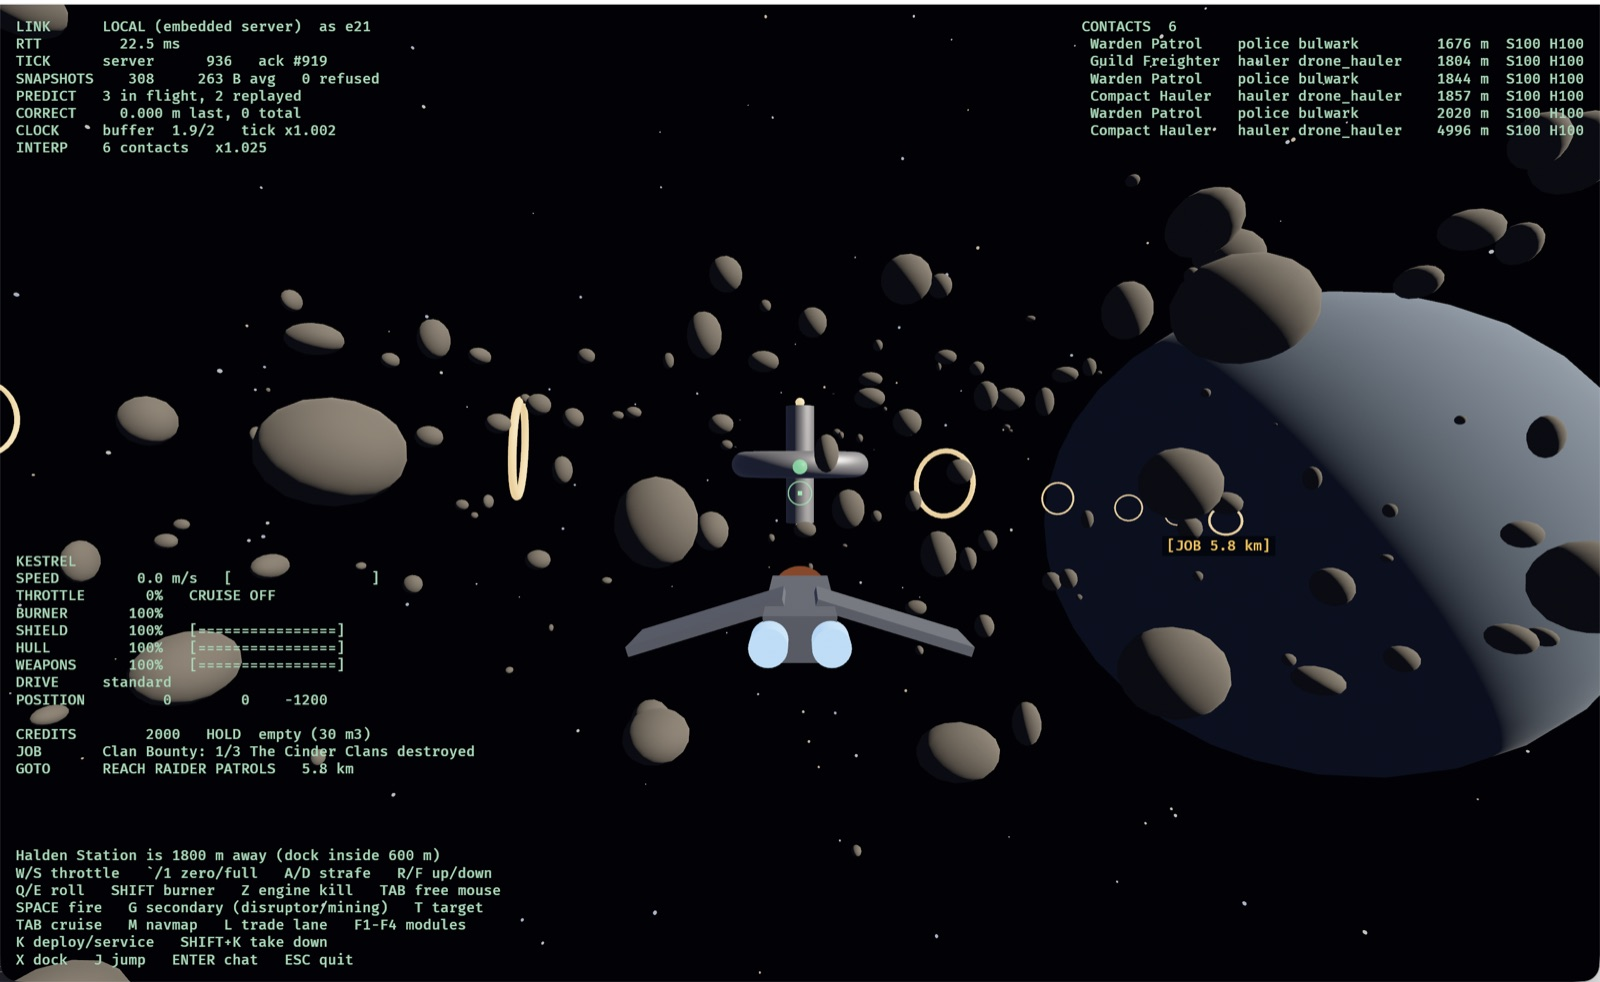
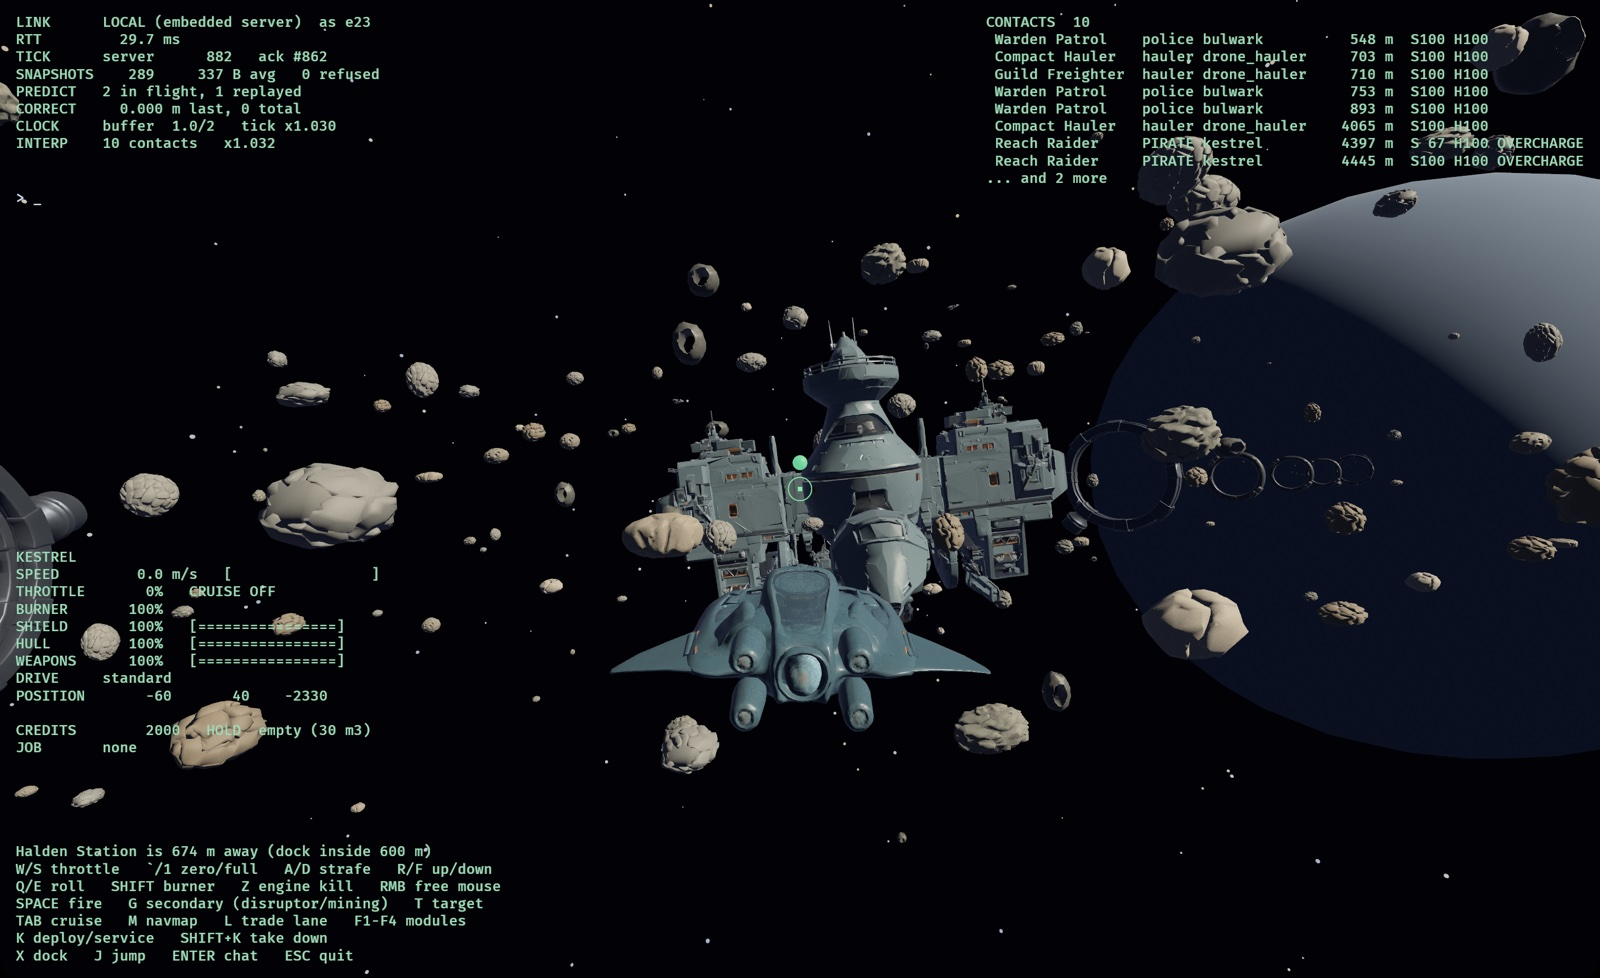
v0.3.1: real models, new screenshots, backdrop brief
Download section points at v0.3.1. All six screenshots are retaken from the
current build, which draws real 3D models for the hulls, stations, gates,
lane rings and asteroids; captions and alt text follow what is in them. The
asset brief gains the full system-backdrop section.

diff --git a/assets.html b/assets.html
@@ -320,6 +320,21 @@
     margin-bottom: 6px;
   }
 
+  /* ---------- prompts ---------- */
+
+  .prompt {
+    font-family: var(--mono);
+    font-size: 12.5px;
+    line-height: 1.6;
+    white-space: pre-wrap;
+    background: var(--slate-dim);
+    border-left: 3px solid var(--rule);
+    padding: 12px 16px;
+    margin: 0 0 18px;
+    max-width: var(--measure);
+    border-radius: 0 3px 3px 0;
+  }
+
   /* ---------- swatches ---------- */
 
   .swatches {
@@ -555,6 +570,13 @@
         one: <span class="id">carrack</span> is 30, <span class="id">drone_hauler</span> 2.2, the
         fighters 1. Author to the table above and drop it. A model whose true size is a data-file
         multiplier is a model nobody can inspect.</p>
+      <p><strong>How the first models are wired in (M35).</strong> The generated set does not meet
+        this contract yet: each file is normalised to about 1&nbsp;m and a hull's nose points along
+        &minus;X. The client turns hulls &minus;90° about Y, measures each file's furthest vertex and
+        scales it to the placeholder it replaces, so ships still draw at placeholder size. Files
+        are found by id (<code>ships/&lt;class&gt;</code>, <code>stations/&lt;base&gt;</code>,
+        <code>structures/&lt;kind&gt;</code>, <code>props/&hellip;</code>); a missing file leaves
+        the placeholder.</p>
 
       <h3>Polygon budgets</h3>
       <p>Interest management replicates up to 24 ships at once, so a busy station means two dozen
@@ -954,21 +976,103 @@
         like entering something rather than crossing a line.</p>
 
       <h3>System backdrops <span class="p p2">P2</span></h3>
-      <p>Today every system shares one generic starfield, so arriving somewhere new looks like
-        arriving nowhere. One skybox per system (cubemap, 2048&nbsp;px a face,
-        <code>skybox/&lt;system id&gt;_{px,nx,py,ny,pz,nz}.png</code>), dim enough that the HUD and
-        contacts stay readable over it. The three should be told apart at a glance from the
-        arrival point: that glance is how a pilot knows a jump worked.</p>
+      <p>Today every system shares one generic starfield (900 unlit dots 40&nbsp;km out), so
+        arriving somewhere new looks like arriving nowhere. Each system gets its own sky. The look
+        to aim for is <strong>deep-space astrophotography</strong>: Hubble and Webb nebulae, the
+        Milky Way as long-exposure photographs show it. Not painted sci-fi space with planets and
+        lens flares.</p>
+      <p><strong>The three must be told apart at a glance from the arrival point.</strong> That
+        glance is how a pilot knows a jump worked: warm gold for Harrow Reach, dark brown dust for
+        Kessler Gap, cold blue-violet for Vell Drift.</p>
+
+      <h4>Technical contract</h4>
       <div class="scroll">
         <table>
-          <thead><tr><th>id</th><th>Name</th><th>Security</th><th class="wrap">Mood</th></tr></thead>
           <tbody>
-            <tr><td><span class="id">harrow_reach</span></td><td>Harrow Reach</td><td>High</td><td class="wrap">Warm and lived-in: a yellow-white sun low on one side, Harrow's green glow, dense traffic-lit lanes. Safe.</td></tr>
-            <tr><td><span class="id">kessler_gap</span></td><td>Kessler Gap</td><td>Low</td><td class="wrap">Dusty and dim: a brown-grey dust band across the sky, a distant red dwarf, wreck-glitter in the dust. Exposed.</td></tr>
-            <tr><td><span class="id">vell_drift</span></td><td>Vell Drift</td><td>Null</td><td class="wrap">Cold and deep: blue-violet nebula filaments, no near star, one ember-red smudge where Cinder Hold's reactors light the dust. Nobody's.</td></tr>
+            <tr><td>Deliverable</td><td class="wrap">One <strong>equirectangular panorama</strong> per system: <code>skybox/&lt;system id&gt;.png</code></td></tr>
+            <tr><td>Size</td><td class="wrap"><strong>8192 &times; 4096</strong> (2:1). 4096 &times; 2048 is the floor; it softens visibly</td></tr>
+            <tr><td>Format</td><td class="wrap">PNG, sRGB, 8 or 16 bit. <strong>Dithered</strong>: dark gradients band badly in 8 bit</td></tr>
+            <tr><td>Wrap</td><td class="wrap">The left and right edges must meet with no seam</td></tr>
+            <tr><td>Poles</td><td class="wrap">Top and bottom 15% (the zenith and nadir) are pinched by the projection: keep them to plain star field</td></tr>
+            <tr><td>Conversion</td><td class="wrap">The wiring step converts the panorama to the cubemap Bevy draws (2048&nbsp;px a face). Do not deliver cube faces</td></tr>
           </tbody>
         </table>
       </div>
+      <p><strong>Orientation.</strong> The image is the sky seen from inside. The <strong>centre
+        of the image is &minus;Z</strong>, the direction a pilot faces at the spawn point; a
+        quarter to the right is +X, the left and right edges are +Z (behind), the top row is
+        +Y.</p>
+      <p><strong>Leave the sun out.</strong> The engine draws the system's star so it lines up with
+        the light that shades the ships, at about <strong>(u&nbsp;0.81, v&nbsp;0.32)</strong> of
+        the image: right of centre, a third of the way down. Keep that patch free of bright
+        features, or the sky shows two suns.</p>
+      <p><strong>Brightness.</strong> The HUD is green text drawn straight over the sky, and
+        contacts are small grey hulls. Most of the image should be near-black (sRGB below about
+        40/255). Nebulae peak around 60&ndash;70%. Nothing white bigger than a star. If a
+        screenshot of the HUD over the brightest part is hard to read, it is too bright.</p>
+
+      <h4>How hard this is</h4>
+      <p>Making a beautiful nebula image is easy for any current image model. The hard part is a
+        <strong>seamless, full-sphere</strong> image at 8k. Single-image models (GPT Image,
+        Midjourney, Flux, Imagen) do not wrap left to right, distort at the poles, and top out
+        around 2k. There are three ways to get there, best first:</p>
+      <ol>
+        <li><strong>Real star field plus a generated feature (recommended).</strong> Start from
+          NASA's <em>Deep Star Maps 2020</em> (Scientific Visualization Studio): a real all-sky star
+          map from Gaia and Hipparcos, already equirectangular, up to 64k (as HDR <code>.exr</code>), free to use with the credit line &ldquo;NASA/Goddard Space Flight Center Scientific Visualization Studio; Gaia DR2: ESA/Gaia/DPAC&rdquo;. Turn it
+          differently for each system so the skies differ, dim it, then composite <strong>one
+          generated nebula or dust feature per system</strong> into the horizon band, painted on
+          black (prompts below). The stars are real, the projection is already right, and only the
+          feature has to be generated.</li>
+        <li><strong>A dedicated 360 generator</strong> (Blockade Labs Skybox AI, or a
+          panorama-capable model). It handles the projection and the wrap, but check the poles and
+          upscale to 8k.</li>
+        <li><strong>A single-image model with fix-up.</strong> Generate at 2:1, upscale (Real-ESRGAN
+          or similar), then fix the wrap: shift the image half a width, inpaint the seam now in the
+          middle, and shift it back. Paint the poles over with star field.</li>
+      </ol>
+      <p><strong>Real Hubble and Webb images</strong> are the right style reference. Using one
+        directly is possible, with care. NASA images are generally public domain. ESA/Hubble and
+        ESA/Webb images are CC&nbsp;BY&nbsp;4.0 and need a credit line. Check each image's credit.
+        They are flat frames, not skies, so they can only be composited in as a feature. Famous
+        objects (the Pillars of Creation, the Carina Nebula) are recognisable and break the
+        fiction. A generated feature in the same palette is usually better.</p>
+
+      <h4>The systems</h4>
+      <div class="scroll">
+        <table>
+          <thead><tr><th>id</th><th>Name</th><th>Security</th><th class="wrap">Sky</th></tr></thead>
+          <tbody>
+            <tr><td><span class="id">harrow_reach</span></td><td>Harrow Reach</td><td>High</td><td class="wrap">Warm and rich: a bright Milky Way band crossing at a tilt, golden dust lanes, a soft rose-and-gold emission nebula low on the left. Busy with stars. Safe.</td></tr>
+            <tr><td><span class="id">kessler_gap</span></td><td>Kessler Gap</td><td>Low</td><td class="wrap">Dark and dusty: a broad brown-grey dark nebula blotting out a third of the sky, thin starlight around its edges, one small distant red dwarf with a faint glow. Sparse. Exposed.</td></tr>
+            <tr><td><span class="id">vell_drift</span></td><td>Vell Drift</td><td>Null</td><td class="wrap">Cold and deep: the filaments of an old supernova remnant across the sky, teal and violet with thin red edges, very few stars. One ember-red smudge low on the horizon where Cinder Hold's reactors light the dust. Nobody's.</td></tr>
+          </tbody>
+        </table>
+      </div>
+
+      <h4>Prompts</h4>
+      <p>Each prompt is the system's sky plus the shared style. Use the panorama form with a 360
+        generator; use the feature form for route 1 or 3, where the feature is composited onto a
+        star field.</p>
+      <p><strong>Shared style</strong> (append to every prompt)</p>
+      <div class="prompt">Deep-space astrophotography in the style of Hubble Space Telescope and James Webb Space Telescope images: real-looking nebula structure with fine filaments and dust lanes, natural star colours, soft diffraction glow only on the brightest stars. Mostly black sky, low overall brightness, high dynamic range, subtle detail in the dark areas, no banding. Photographic, not painted. No planets, no spaceships, no lens flares, no text, no watermark, no frame.</div>
+      <p><strong>Panorama form</strong>, prefix</p>
+      <div class="prompt">Seamless equirectangular 360-degree panorama of a night sky in deep space, 2:1 aspect ratio, left and right edges continuous, plain star field near the top and bottom edges.</div>
+      <p><strong>Feature form</strong>, prefix</p>
+      <div class="prompt">A single isolated deep-space feature on a pure black background, no stars, soft edges fading to black on every side, for compositing onto a star field.</div>
+      <p><span class="id">harrow_reach</span></p>
+      <div class="prompt">A rich, warm sky. A bright Milky Way band crosses the frame at a gentle tilt, dense with stars, with golden-brown dust lanes running through it. Low on the left, a soft emission nebula in rose, gold and warm white, like a small Lagoon Nebula, glowing gently. Warm, safe, inhabited-feeling, the colours of late-evening light.</div>
+      <p><span class="id">kessler_gap</span></p>
+      <div class="prompt">A dark, dusty, desolate sky. A vast brown-grey dark nebula, opaque cold dust like Barnard's dark nebulae or the Coalsack, blots out a third of the sky, its edges lit faintly from behind. Thin, sparse starlight around it. Far off, one small dim red dwarf star with a faint red halo. Dim, empty, exposed, the colours of soot and rust.</div>
+      <p><span class="id">vell_drift</span></p>
+      <div class="prompt">A cold, deep, empty sky. The long thin filaments of an ancient supernova remnant, like the Veil Nebula, sweep across it in teal and blue-violet with fine red hydrogen edges, delicate and torn. Very few stars. Low on the horizon, a single faint ember-orange glow lighting a patch of dust. Cold, lonely, lawless, the colours of ice and a dying fire.</div>
+
+      <h4>Acceptance</h4>
+      <ul>
+        <li>Load it in a panorama viewer and turn a full circle: no seam, no pinch.</li>
+        <li>Put the game's HUD screenshot over the brightest part: the text reads.</li>
+        <li>Put the three side by side as small thumbnails: each is recognisable.</li>
+      </ul>
 
       <h3><span class="id">loot</span> Cargo container <span class="p p1">P1</span></h3>
       <p>Spawns where a ship died, holding what it carried, and disperses after a timeout.
@@ -1308,7 +1412,7 @@
           <li><label><input type="checkbox"><span>icons/skill/ × 12, icons/damage/ × 4</span></label></li>
           <li><label><input type="checkbox"><span>audio/ambience/ × 5</span></label></li>
           <li><label><input type="checkbox"><span>music/ × 6</span></label></li>
-          <li><label><input type="checkbox"><span>skybox/ × 3 systems (harrow_reach, kessler_gap, vell_drift)</span></label></li>
+          <li><label><input type="checkbox"><span>skybox/&lt;system id&gt;.png × 3 (harrow_reach, kessler_gap, vell_drift): 8192 × 4096 equirectangular, seamless</span></label></li>
           <li><label><input type="checkbox"><span>Ship damage states</span></label></li>
           <li><label><input type="checkbox"><span>A proportional display family</span></label></li>
         </ul>

diff --git a/index.html b/index.html
@@ -38,28 +38,28 @@
     </section>
 
     <figure class="shot-hero">
-      <img src="screenshots/02-convoy.jpg" alt="A Kestrel fighter beside Halden Station, escorting a Guild convoy; the HUD shows the job and a marker on the convoy." width="1600" height="982">
-      <figcaption>Escorting Varga's convoy out of Halden Station. The marker follows the convoy; it waits if you fall behind.</figcaption>
+      <img src="screenshots/02-convoy.jpg" alt="A Kestrel fighter a few hundred metres off Halden Station, trade lane rings to either side, the prompt to dock on the HUD." width="1600" height="978">
+      <figcaption>Coming in to Halden Station in a Kestrel. Inside 600 m the dock prompt comes up; fly into the hull instead and you bounce off it.</figcaption>
     </figure>
 
     <p class="status" style="margin-top:2rem">
       <strong>In development.</strong> Everything on this site describes the
       game as it is today, and the screenshots are from the current build:
-      placeholder art, real systems.
+      real 3D models for every hull, station and gate, and real systems underneath.
     </p>
 
     <h2 id="download">Download</h2>
     <p>
-      Version <strong>0.3.0</strong>. Unpack the archive and run
+      Version <strong>0.3.1</strong>. Unpack the archive and run
       <code>harrow-client</code>. Single-player runs the real server inside the
       game; <code>harrow-server</code> is in the same archive for playing
       together. Keep the folder together: your pilot is saved in it.
     </p>
     <div class="downloads">
-      <a class="button primary" href="https://github.com/rsantacroce/harrow-reach-site/releases/download/v0.3.0/harrow-reach-v0.3.0-macos-arm64.tar.gz">macOS, Apple silicon</a>
-      <a class="button primary" href="https://github.com/rsantacroce/harrow-reach-site/releases/download/v0.3.0/harrow-reach-v0.3.0-macos-x86_64.tar.gz">macOS, Intel</a>
-      <a class="button primary" href="https://github.com/rsantacroce/harrow-reach-site/releases/download/v0.3.0/harrow-reach-v0.3.0-windows-x86_64.zip">Windows</a>
-      <a class="button primary" href="https://github.com/rsantacroce/harrow-reach-site/releases/download/v0.3.0/harrow-reach-v0.3.0-linux-x86_64.tar.gz">Linux</a>
+      <a class="button primary" href="https://github.com/rsantacroce/harrow-reach-site/releases/download/v0.3.1/harrow-reach-v0.3.1-macos-arm64.tar.gz">macOS, Apple silicon</a>
+      <a class="button primary" href="https://github.com/rsantacroce/harrow-reach-site/releases/download/v0.3.1/harrow-reach-v0.3.1-macos-x86_64.tar.gz">macOS, Intel</a>
+      <a class="button primary" href="https://github.com/rsantacroce/harrow-reach-site/releases/download/v0.3.1/harrow-reach-v0.3.1-windows-x86_64.zip">Windows</a>
+      <a class="button primary" href="https://github.com/rsantacroce/harrow-reach-site/releases/download/v0.3.1/harrow-reach-v0.3.1-linux-x86_64.tar.gz">Linux</a>
     </div>
     <p class="muted" style="margin-top:1rem">
       The builds are not signed. On <strong>macOS</strong>, right-click
@@ -88,23 +88,23 @@
     <h2 id="screenshots">Screenshots</h2>
     <div class="gallery">
       <figure>
-        <a href="screenshots/01-halden.jpg"><img src="screenshots/01-halden.jpg" alt="Launching from near Halden Station with a bounty job; the HUD points at the raider patrols 5.8 km away." loading="lazy" width="1600" height="982"></a>
-        <figcaption>Leaving Halden on a bounty. The job marker points at the raiders' ground; the amber rings are trade lanes.</figcaption>
+        <a href="screenshots/01-halden.jpg"><img src="screenshots/01-halden.jpg" alt="A Kestrel fighter near Halden Station, with the trade lane rings and the planet Harrow beyond it." loading="lazy" width="1600" height="978"></a>
+        <figcaption>Leaving Halden. The rings to the right are a trade lane; the planet behind them is Harrow, where the lane goes.</figcaption>
       </figure>
       <figure>
-        <a href="screenshots/03-lane.jpg"><img src="screenshots/03-lane.jpg" alt="At the ring of a trade lane, lined up toward the Kessler Gap gate." loading="lazy" width="1600" height="982"></a>
-        <figcaption>At a trade lane ring. Press <kbd>L</kbd> and ride to the Kessler Gap gate; anything hostile near the line pulls you out.</figcaption>
+        <a href="screenshots/03-lane.jpg"><img src="screenshots/03-lane.jpg" alt="Lined up at the first ring of a trade lane, the HUD offering the ride to Harrow." loading="lazy" width="1600" height="978"></a>
+        <figcaption>At a trade lane ring. Press <kbd>L</kbd> and ride to Harrow; anything hostile near the line pulls you out.</figcaption>
       </figure>
       <figure>
-        <a href="screenshots/04-docked.jpg"><img src="screenshots/04-docked.jpg" alt="Docked at Halden Station, the trade screen listing commodities with stock and prices." loading="lazy" width="1600" height="982"></a>
+        <a href="screenshots/04-docked.jpg"><img src="screenshots/04-docked.jpg" alt="Docked at Halden Station, the trade screen listing commodities with stock and prices over a view of the station." loading="lazy" width="1600" height="978"></a>
         <figcaption>Docked at Halden. Prices come from stock, so the trade screen is a market, not a price list.</figcaption>
       </figure>
       <figure>
-        <a href="screenshots/05-kessler.jpg"><img src="screenshots/05-kessler.jpg" alt="Arriving in Kessler Gap beside the gate, with five Gap Raiders on the contact list." loading="lazy" width="1600" height="982"></a>
+        <a href="screenshots/05-kessler.jpg"><img src="screenshots/05-kessler.jpg" alt="Arriving in Kessler Gap beside the gate, with five Gap Raiders on the contact list." loading="lazy" width="1600" height="978"></a>
         <figcaption>Arriving in Kessler Gap. Low security, no police, and five raiders already on the contact list.</figcaption>
       </figure>
       <figure>
-        <a href="screenshots/06-drift.jpg"><img src="screenshots/06-drift.jpg" alt="In Vell Drift, sheltering under a friendly Warden Relay 700 m ahead." loading="lazy" width="1600" height="982"></a>
+        <a href="screenshots/06-drift.jpg"><img src="screenshots/06-drift.jpg" alt="In Vell Drift, a player-built Warden Relay 260 m ahead." loading="lazy" width="1600" height="978"></a>
         <figcaption>Vell Drift, under the cover of a player's Warden Relay. Its repair field patches up anyone the Wardens like.</figcaption>
       </figure>
     </div>

diff --git a/manual.html b/manual.html
@@ -68,7 +68,7 @@
 
       <h2 id="hud">Reading the HUD</h2>
       <figure>
-        <img src="screenshots/01-halden.jpg" alt="The flight HUD near Halden Station with a bounty job." width="1600" height="982" loading="lazy">
+        <img src="screenshots/01-halden.jpg" alt="The flight HUD near Halden Station." width="1600" height="978" loading="lazy">
         <figcaption>Flight panel bottom left, contacts top right, netcode top left.</figcaption>
       </figure>
       <ul>
@@ -104,7 +104,7 @@
       <h2 id="travel">Getting around</h2>
       <h3>Trade lanes</h3>
       <figure>
-        <img src="screenshots/03-lane.jpg" alt="Lined up at a trade lane ring." width="1600" height="982" loading="lazy">
+        <img src="screenshots/03-lane.jpg" alt="Lined up at a trade lane ring." width="1600" height="978" loading="lazy">
         <figcaption>At a lane ring. The prompt says where the lane goes.</figcaption>
       </figure>
       <p>
@@ -156,7 +156,7 @@
 
       <h2 id="trade">Trade</h2>
       <figure>
-        <img src="screenshots/04-docked.jpg" alt="The trade screen at Halden Station." width="1600" height="982" loading="lazy">
+        <img src="screenshots/04-docked.jpg" alt="The trade screen at Halden Station." width="1600" height="978" loading="lazy">
       </figure>
       <p>
         Prices come from <strong>stock</strong>. A station sitting on a surplus
@@ -326,7 +326,7 @@
         <li><strong>Escorts</strong>: a convoy forms when you launch near the station you took the job at. It waits if you fall more than 1.5 km behind, runs from pirates, and partway along a raid comes for it. Lose it and the job fails. If its destination is in another system, it waits at the gate and jumps when you do. Escorts are paid the moment the convoy arrives.</li>
       </ul>
       <figure>
-        <img src="screenshots/02-convoy.jpg" alt="Escorting a convoy out of Halden." width="1600" height="982" loading="lazy">
+        <img src="screenshots/02-convoy.jpg" alt="Halden Station, where the convoys form up." width="1600" height="978" loading="lazy">
       </figure>
 
       <h2 id="campaign">The campaign</h2>
@@ -384,7 +384,7 @@
 
       <h2 id="structures">Structures</h2>
       <figure>
-        <img src="screenshots/06-drift.jpg" alt="Sheltering under a Warden Relay in Vell Drift." width="1600" height="982" loading="lazy">
+        <img src="screenshots/06-drift.jpg" alt="Sheltering under a Warden Relay in Vell Drift." width="1600" height="978" loading="lazy">
         <figcaption>The Warden Relay ahead covers this pilot: the HUD says so.</figcaption>
       </figure>
       <p>
@@ -417,7 +417,7 @@
 
       <h2 id="systems">The systems</h2>
       <figure>
-        <img src="screenshots/05-kessler.jpg" alt="Arriving in Kessler Gap." width="1600" height="982" loading="lazy">
+        <img src="screenshots/05-kessler.jpg" alt="Arriving in Kessler Gap." width="1600" height="978" loading="lazy">
       </figure>
       <div class="table-wrap"><table>
         <tr><th>System</th><th>Security</th><th></th></tr>
